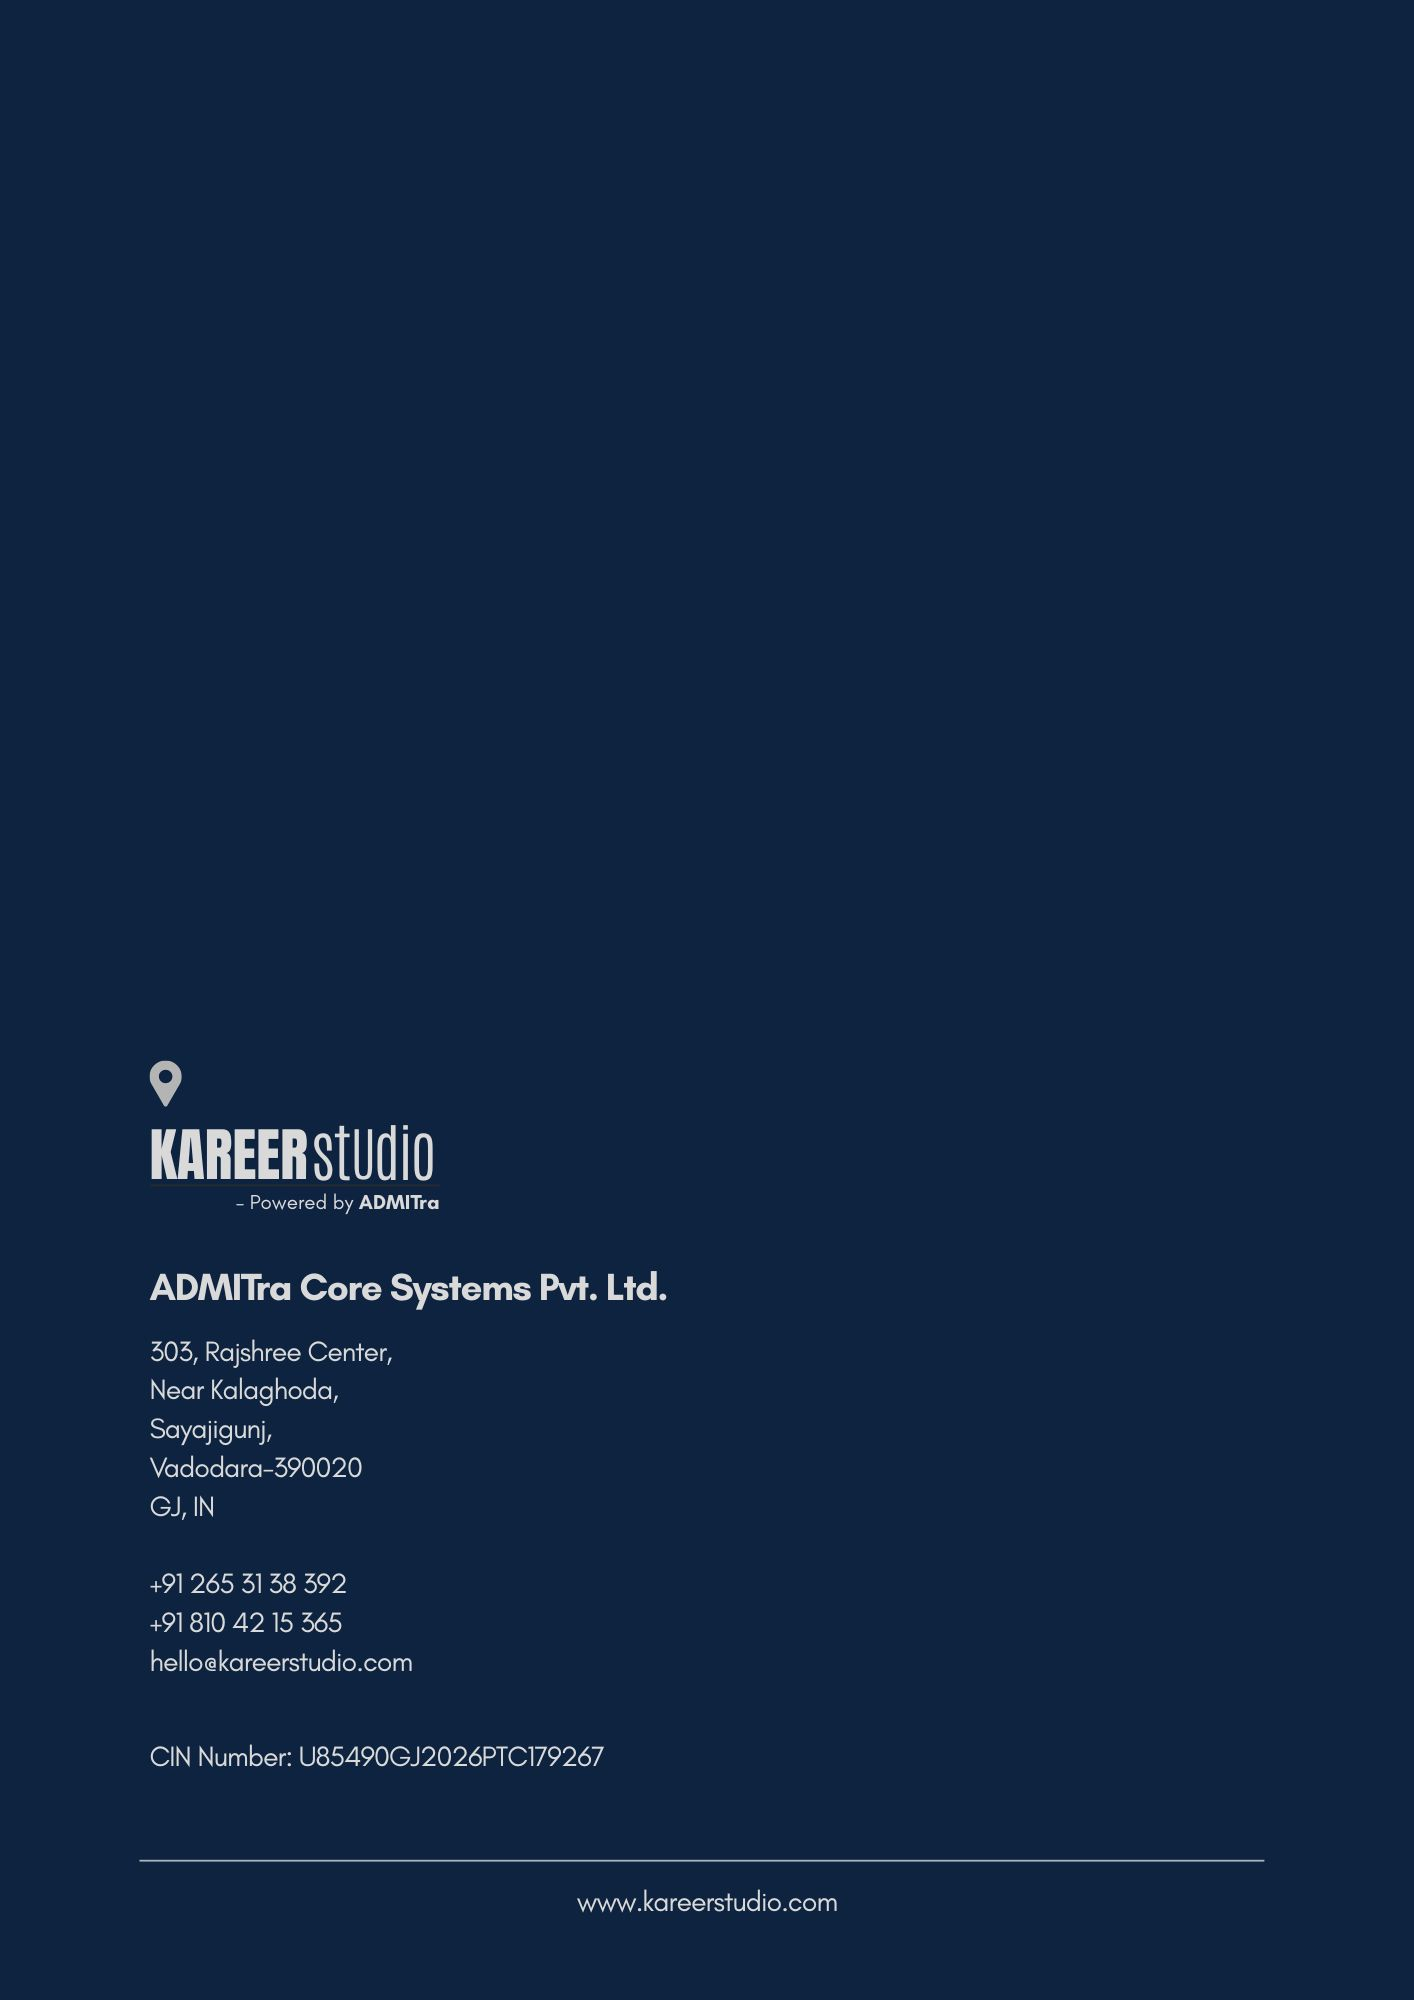
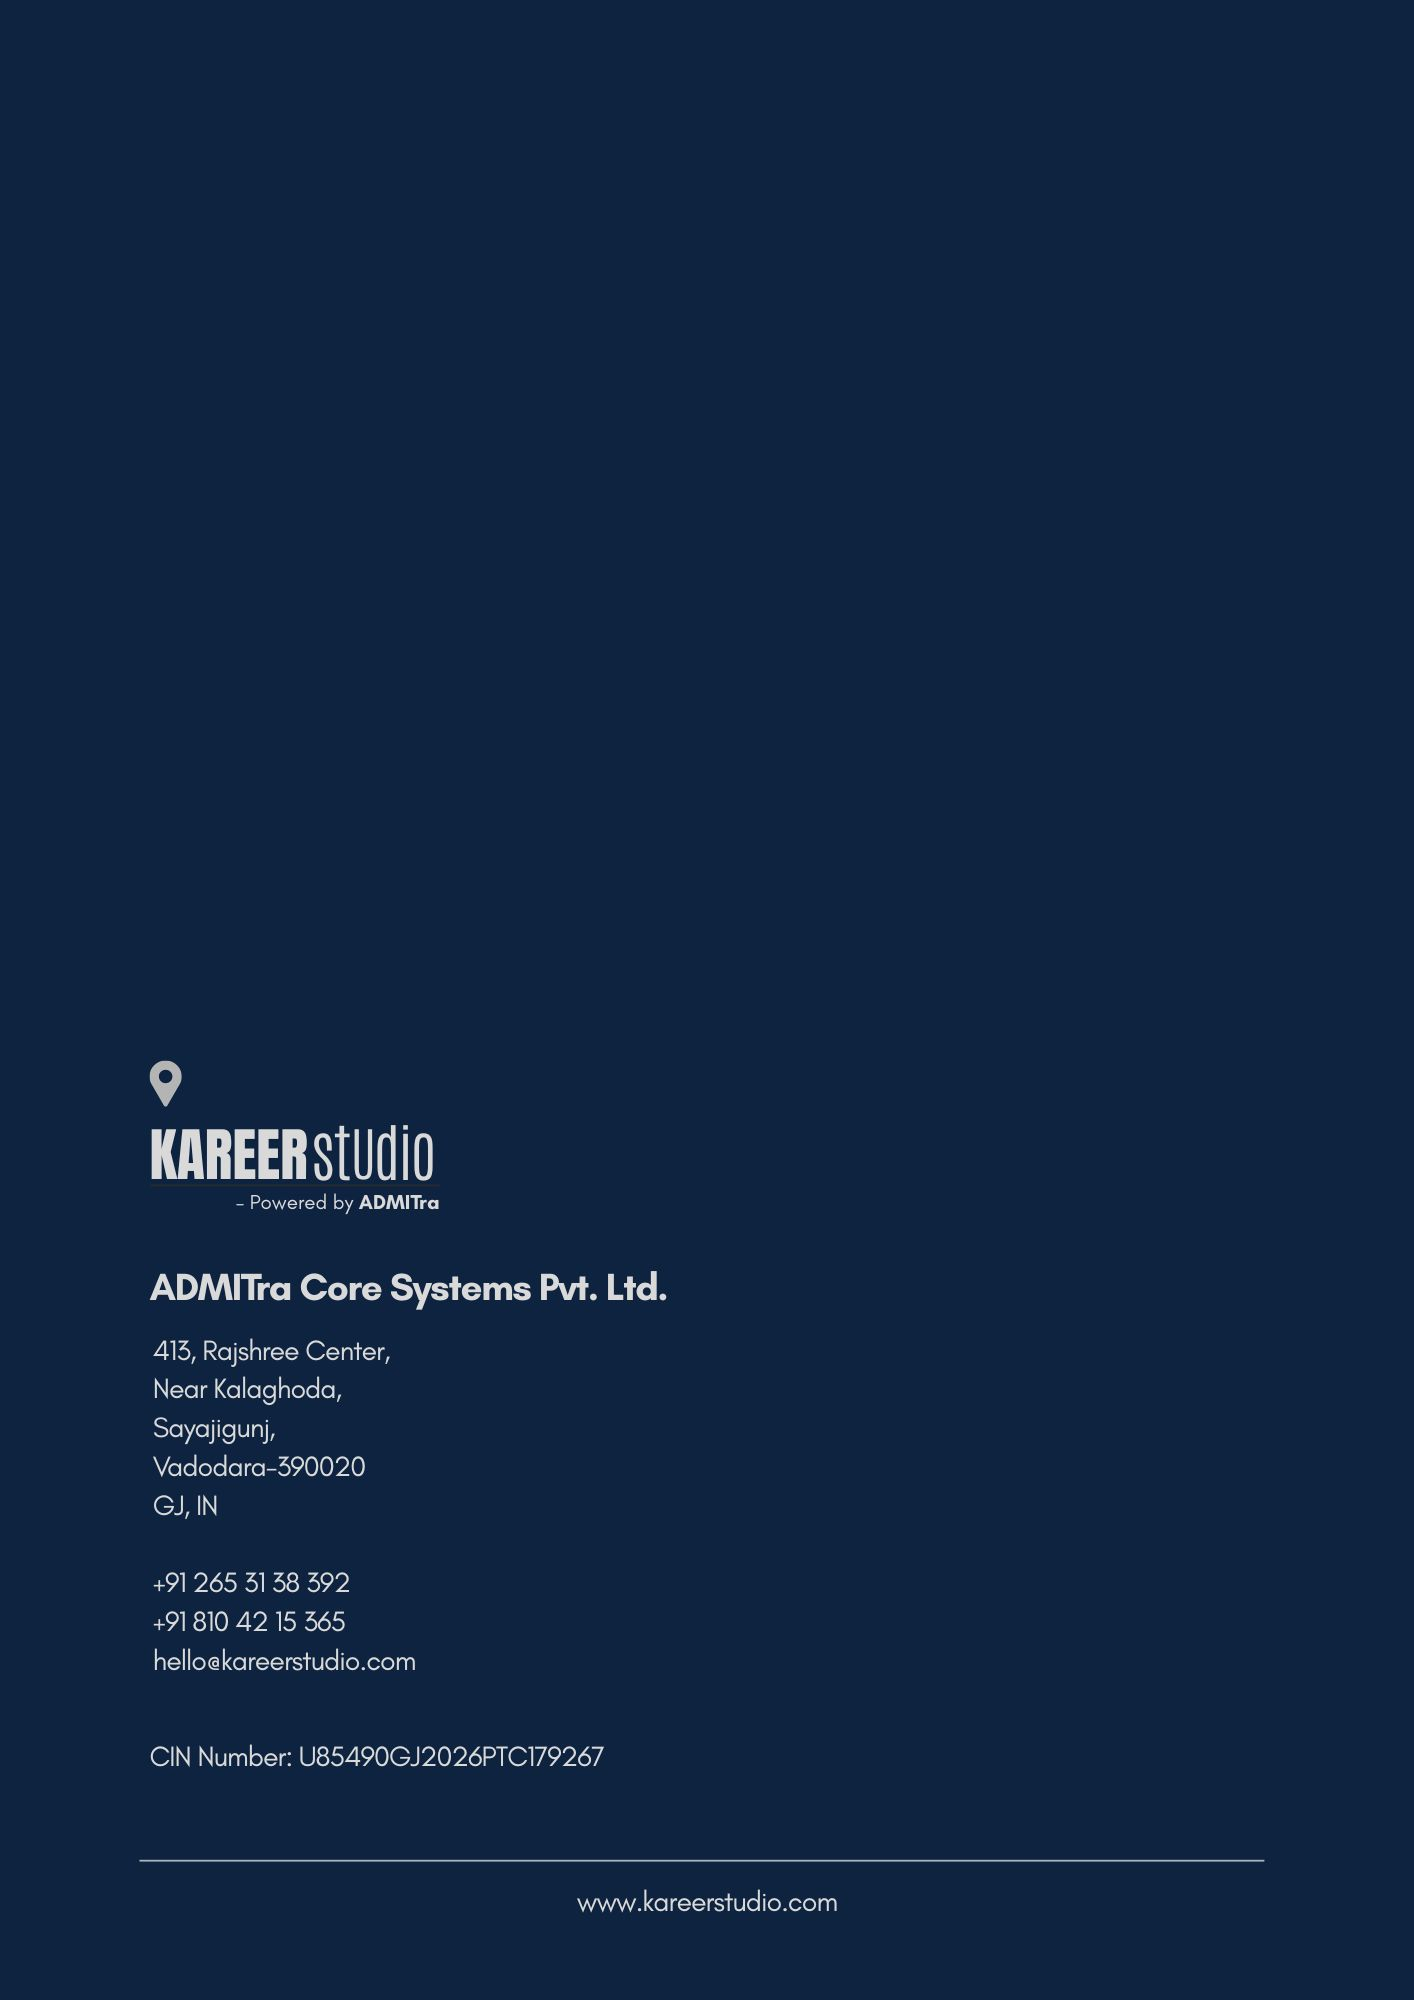
fix: enhance assessment code handling and error messaging
- Added validation to ensure assessment codes are present in various components, improving error handling and user feedback.
- Updated routing logic to correctly resolve assessment codes from dynamic parameters, enhancing the robustness of the application.
- Introduced a new utility function to streamline assessment code normalization, improving code maintainability.
- Updated the back cover image asset for reports, ensuring consistency across visual elements.

Changed region(s): [[0.0934, 0.651, 0.2801, 0.837]]

diff --git a/frontend/src/app/whitelabel/[slug]/student/assessments/[code]/result/page.tsx b/frontend/src/app/whitelabel/[slug]/student/assessments/[code]/result/page.tsx
@@ -1,7 +1,7 @@
 "use client";
 
 import { useEffect, useMemo, useState } from "react";
-import { useParams, useRouter, useSearchParams } from "next/navigation";
+import { useParams, usePathname, useRouter, useSearchParams } from "next/navigation";
 
 import AttemptHistoryResultSummary from "@/components/assessment/AttemptHistoryResultSummary";
 import AssessmentReportView from "@/components/reports/AssessmentReportView";
@@ -13,6 +13,7 @@ import {
   formatAttemptHistoryResult,
   getAssessmentDisplayName,
   normalizeAssessmentCode,
+  resolveRouteAssessmentCode,
   type AttemptHistoryEvaluation,
 } from "@/lib/assessmentAccess";
 
@@ -49,6 +50,12 @@ function AssessmentAttemptHistory(props: {
   const fetchAttempts = async () => {
     if (!auth?.token) {
       router.replace(loginHref);
+      return;
+    }
+    if (!assessmentCode) {
+      setError("Assessment code is missing from this page URL.");
+      setAttempts([]);
+      setLoading(false);
       return;
     }
 
@@ -183,6 +190,12 @@ function AttemptHistoryOrRedirect(props: {
       setLoading(true);
       setError(null);
 
+      if (!props.assessmentCode) {
+        setError("Assessment code is missing from this page URL.");
+        setLoading(false);
+        return;
+      }
+
       try {
         const response = await apiRequest<AttemptHistoryResponse>(
           `/platform/student/assessments/${props.assessmentCode}/attempts`,
@@ -278,14 +291,26 @@ function AttemptHistoryOrRedirect(props: {
 }
 
 export default function StudentAssessmentResultPage() {
-  const params = useParams<{ slug?: string; code?: string }>();
+  const params = useParams<{ slug?: string; code?: string; rest?: string[] }>();
+  const pathname = usePathname();
   const searchParams = useSearchParams();
   const slug = params?.slug || "";
-  const code = normalizeAssessmentCode(String(params?.code || ""));
+  const code = resolveRouteAssessmentCode(params, pathname);
   const attemptId = searchParams?.get("attemptId") || "";
 
   const attemptListHref = buildStudentResultPath(slug, code);
   const isMultiAttemptAssessment = allowsMultipleAttempts(code);
+
+  if (!code) {
+    return (
+      <div className="space-y-4">
+        <h1 className="text-2xl font-bold text-slate-900">Assessment Report</h1>
+        <div className="rounded-xl border border-red-200 bg-red-50 p-4 text-red-700 text-sm">
+          Assessment code is missing from this page URL. Open the report from your results or assessments list.
+        </div>
+      </div>
+    );
+  }
 
   if (attemptId) {
     return (

diff --git a/frontend/src/lib/assessmentAccess.ts b/frontend/src/lib/assessmentAccess.ts
@@ -268,12 +268,47 @@ export function shouldShowAttemptList(assessmentCode: string): boolean {
   return allowsMultipleAttempts(assessmentCode);
 }
 
+type RouteAssessmentCodeParams = {
+  code?: string | string[];
+  rest?: string | string[];
+};
+
+/** Resolve assessment code from dynamic route params or catch-all `rest` segments. */
+export function resolveRouteAssessmentCode(
+  params: RouteAssessmentCodeParams,
+  pathname?: string | null,
+): string {
+  const rawCode = params.code;
+  if (typeof rawCode === "string" && rawCode.trim()) {
+    return normalizeAssessmentCode(rawCode);
+  }
+  if (Array.isArray(rawCode) && rawCode[0]?.trim()) {
+    return normalizeAssessmentCode(rawCode[0]);
+  }
+
+  const rest = params.rest;
+  const restParts = Array.isArray(rest) ? rest : typeof rest === "string" ? [rest] : [];
+  if (restParts[1] === "assessments" && restParts[2]?.trim()) {
+    return normalizeAssessmentCode(restParts[2]);
+  }
+
+  const match = pathname?.match(/\/student\/assessments\/([^/]+)(?:\/|$)/);
+  if (match?.[1]) {
+    return normalizeAssessmentCode(decodeURIComponent(match[1]));
+  }
+
+  return "";
+}
+
 export function buildStudentResultPath(
   slug: string,
   assessmentCode: string,
   options?: { attemptId?: string }
 ): string {
   const code = normalizeAssessmentCode(assessmentCode);
+  if (!code) {
+    return `/whitelabel/${slug}/student/results`;
+  }
   const base = `/whitelabel/${slug}/student/assessments/${code}/result`;
   if (options?.attemptId) {
     return `${base}?attemptId=${options.attemptId}`;

diff --git a/frontend/src/app/whitelabel/[slug]/[...rest]/page.tsx b/frontend/src/app/whitelabel/[slug]/[...rest]/page.tsx
@@ -51,16 +51,16 @@ function resolveCatchAllContent(rest: string[], slug: string): CatchAllContent |
     if (rest.length === 2 && rest[1] === "register") {
       return { type: "student-shell", element: <StudentRegisterPage /> };
     }
-    if (rest.length === 4 && rest[1] === "assessments" && rest[3] === "take") {
+    if (rest.length === 4 && rest[1] === "assessments" && rest[2] && rest[3] === "take") {
       return { type: "student-fullscreen", element: <StudentTakeAssessmentPage /> };
     }
-    if (rest.length === 4 && rest[1] === "assessments" && rest[3] === "result") {
+    if (rest.length === 4 && rest[1] === "assessments" && rest[2] && rest[3] === "result") {
       return { type: "student-shell", element: <StudentAssessmentResultPage /> };
     }
-    if (rest.length === 4 && rest[1] === "assessments" && rest[3] === "info") {
+    if (rest.length === 4 && rest[1] === "assessments" && rest[2] && rest[3] === "info") {
       return { type: "student-shell", element: <StudentAssessmentInfoPage /> };
     }
-    if (rest.length === 3 && rest[1] === "assessments") {
+    if (rest.length === 3 && rest[1] === "assessments" && rest[2]) {
       return { type: "student-shell", element: <StudentAssessmentAttemptListPage /> };
     }
     return null;

diff --git a/frontend/src/components/reports/AssessmentReportView.tsx b/frontend/src/components/reports/AssessmentReportView.tsx
@@ -389,7 +389,7 @@ async function resolveRqAttemptsForReport(
   authToken: string | undefined,
   fetchPath: string
 ): Promise<RQAttemptItem[] | undefined> {
-  if (normalizedCode !== "RESILIENCE_TEST") {
+  if (!normalizedCode || normalizedCode !== "RESILIENCE_TEST") {
     return undefined;
   }
   if (Array.isArray(rqAttempts)) {
@@ -638,11 +638,11 @@ export default function AssessmentReportView({
     }
 
     const normalizedCode = normalizeAssessmentCode(String(report.assessmentCode || ""));
-    if (normalizedCode !== "RESILIENCE_TEST") {
+    if (!normalizedCode || normalizedCode !== "RESILIENCE_TEST") {
       return;
     }
 
-    apiRequest<{ attempts: RQAttemptItem[] }>(`/platform/student/assessments/${report.assessmentCode}/attempts`, {}, auth.token)
+    apiRequest<{ attempts: RQAttemptItem[] }>(`/platform/student/assessments/${normalizedCode}/attempts`, {}, auth.token)
       .then((res) => {
         setRQAttempts(res.attempts);
       })

diff --git a/backend/src/controllers/platformController.ts b/backend/src/controllers/platformController.ts
@@ -2308,6 +2308,9 @@ export const listStudentResults = async (req: AuthRequest, res: Response): Promi
       .filter((attempt) => isAssessmentAccessibleForLearner(learnerRole, attempt.assessmentCode, req.user?.grade))
       .forEach((attempt) => {
         const canonicalCode = normalizeAssessmentCode(attempt.assessmentCode);
+        if (!canonicalCode) {
+          return;
+        }
         const existing = groupedResults.get(canonicalCode);
         if (existing) {
           existing.totalAttempts += 1;
